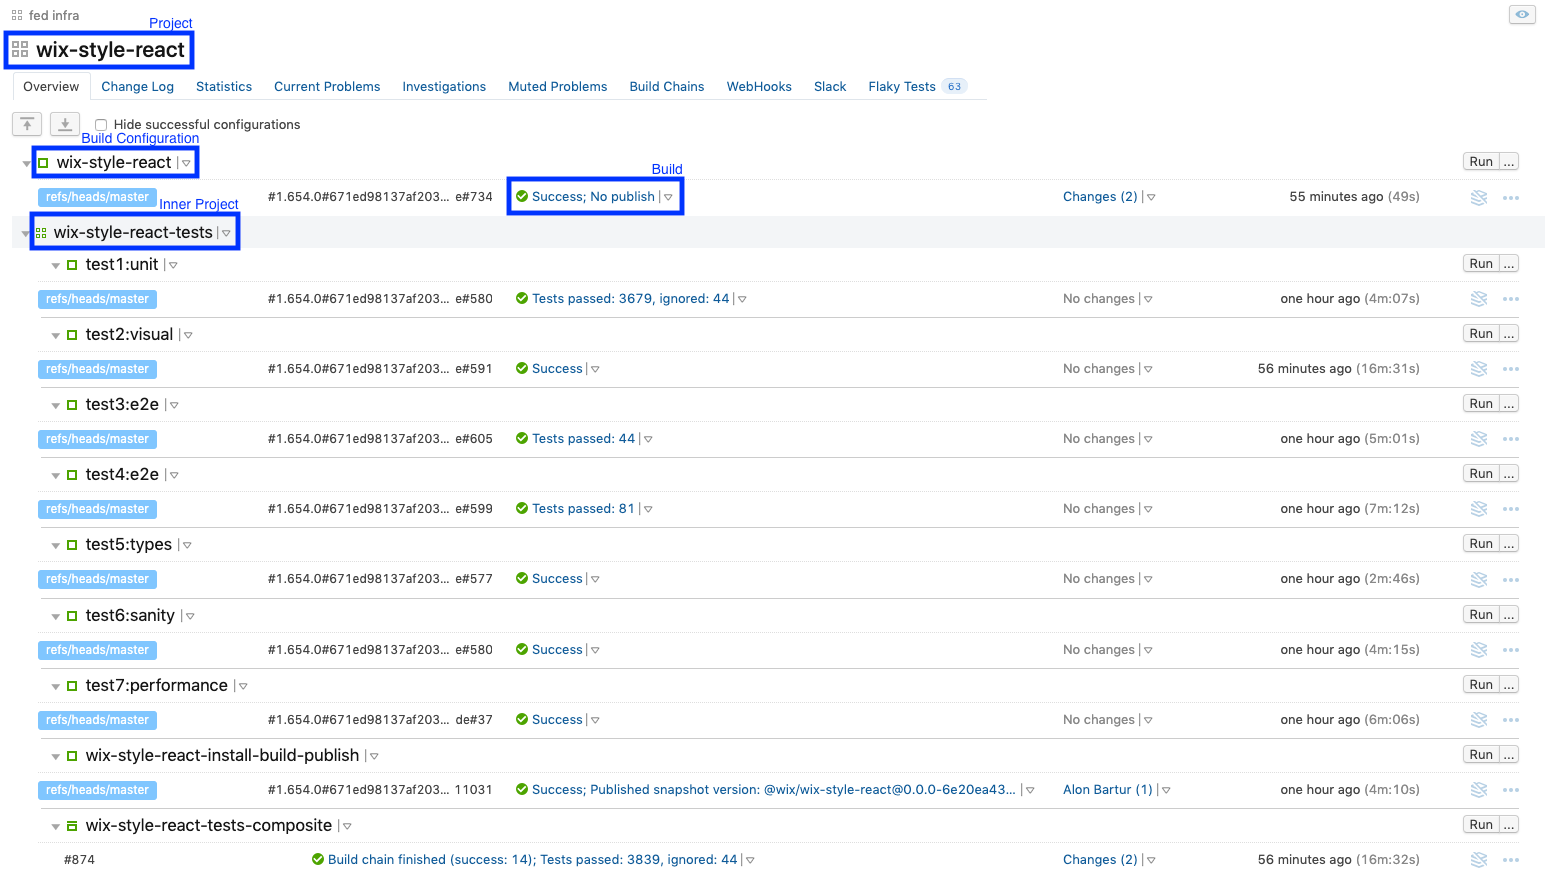
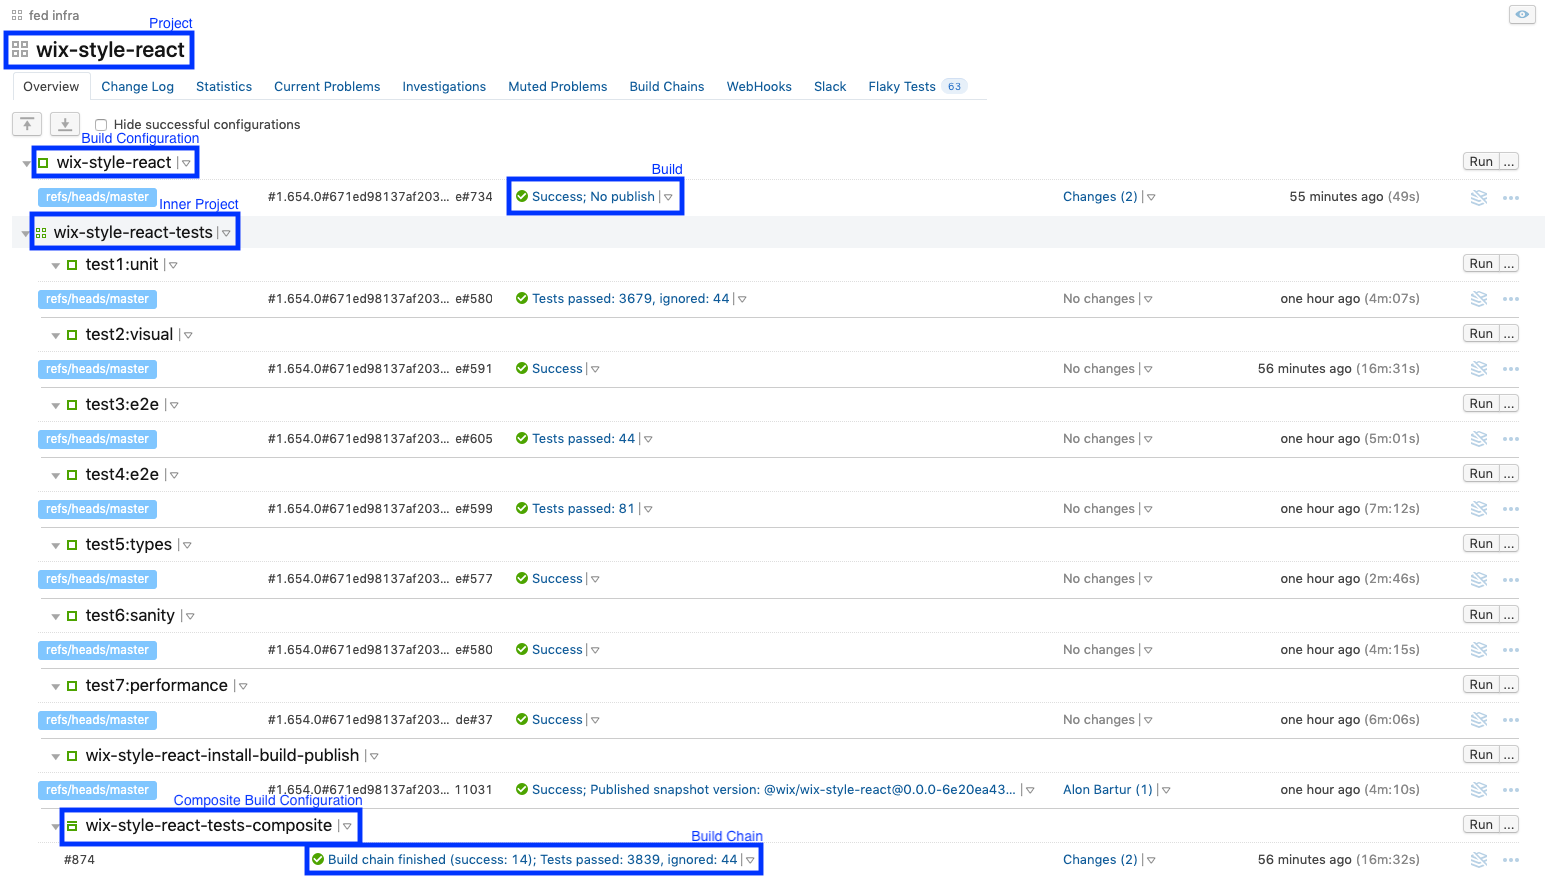
docs: improve guide

Changed region(s): [[0.0311, 0.8908, 0.4971, 1.0]]

diff --git a/docs/internal/CONTINUOUS_INTEGRATION.md b/docs/internal/CONTINUOUS_INTEGRATION.md
@@ -12,10 +12,12 @@ This article describes the flow process (which implements the concepts above) st
 Before we start, we should understand the following TeamCity terms:
 
 - Build Step - a task to be executed (for instance, `npm run build`)
-- Build - an instance of process that executes list of build steps
+- Build - an instance of a process that executes list of build steps
+- Build Chain - an instance of a process that depends on several build processes
 - Build Configuration - a collection of settings that define the build process
+- Composite Build Configuration - a type of build configuration that aggregates results from several build processes which could be executed in parallel
 - Project - a collection of build configurations (a project could be contained inside another project)
 
 <p align="center">
-  <img width="700" src="../assets/teamcity-terminology.png">
+  <img width="80%" src="../assets/teamcity-terminology.png">
 </p>
